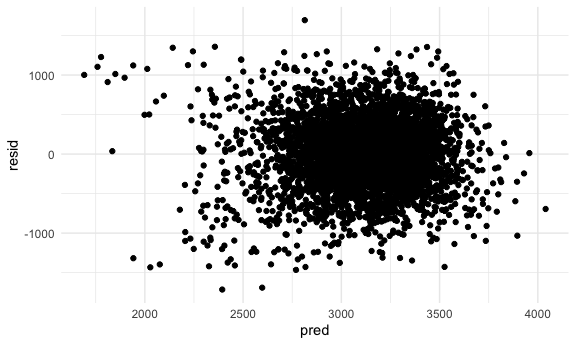
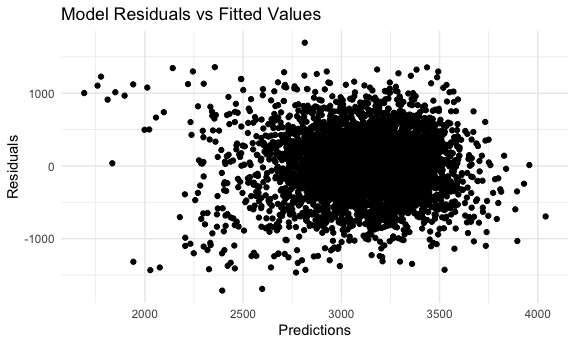
Final edits

diff --git a/hw_6_jhk.md b/hw_6_jhk.md
@@ -75,7 +75,11 @@ birthweight_df %>%
   add_predictions(reg_birthweight) %>% 
   add_residuals(reg_birthweight) %>% 
   ggplot(aes(x = pred, y = resid)) + 
-  geom_point()
+  geom_point() + 
+  labs( 
+    x = "Predictions", 
+    y = "Residuals", 
+    title = "Model Residuals vs Fitted Values")
 ```
 
 <img src="hw_6_jhk_files/figure-gfm/unnamed-chunk-2-1.png" width="90%" />
@@ -201,7 +205,11 @@ r_squared =
   unnest(results) 
 
 r_squared %>% 
-  ggplot(aes(x=r.squared)) + geom_density()
+  ggplot(aes(x=r.squared)) + geom_density() + 
+  labs( 
+    x = "R Squared", 
+    y = "Density", 
+    title = "Distribution of R Squared")
 ```
 
 <img src="hw_6_jhk_files/figure-gfm/unnamed-chunk-7-1.png" width="90%" />
@@ -243,7 +251,11 @@ log_distribution =
 
 
 log_distribution %>% 
-  ggplot(aes(x=log_beta)) + geom_density()
+  ggplot(aes(x=log_beta)) + geom_density() + 
+  labs( 
+    x = "Log(B0*B1)", 
+    y = "Density", 
+    title = "Distribution of Log(B0*B1)")
 ```
 
 <img src="hw_6_jhk_files/figure-gfm/unnamed-chunk-9-1.png" width="90%" />
